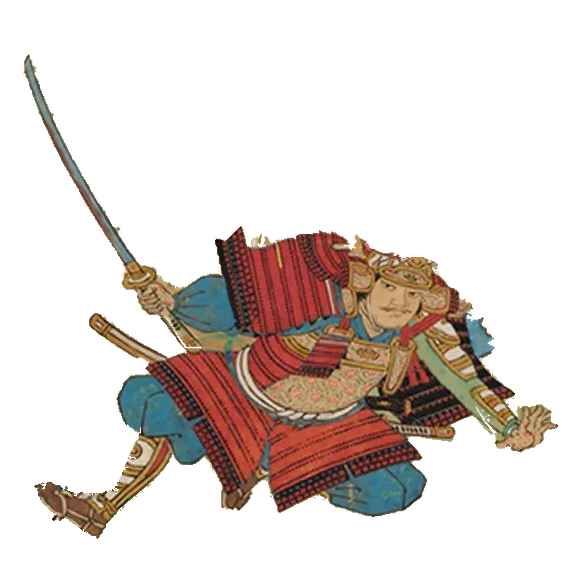
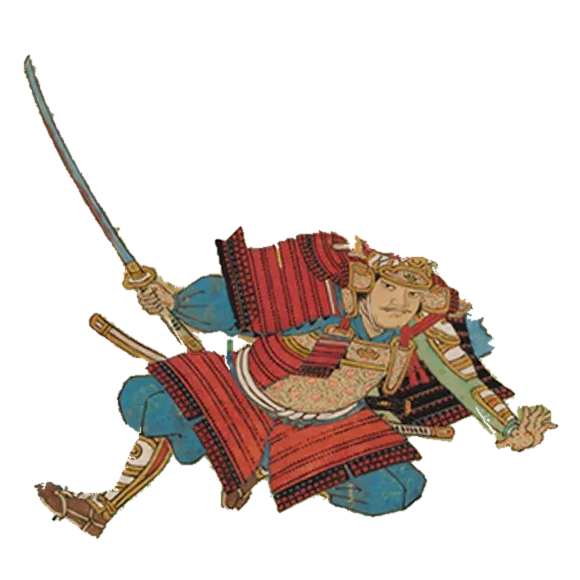
fix: 残っていた小さな問題をまとめて直す (縁のそろえ・柄の端・背景の混入)
- 全フレームの縁を同じ作りにそろえた (アルファを2値にして同じ幅でぼかす)。
  静止 (1・8) だけ硬かった縁がそろい、透明なのに RGB が 0 でない画素と孤立した小片がなくなった
- 柄の端 (石突き) も柄と一緒に動かし、裾の上に空いた跡は周りの赤で埋めた (石突きだけ静止して見えていた)
- 肩の板の上の鬼の牙・唇の欠片、袖の下と裾の上のあいだの背景の帯をマスクから外した

Claude-Session: https://claude.ai/code/session_01WefeYuLWziLRgKXWJhEEtu

diff --git a/shuten-doji-animation-prototype/tools/make_assets.py b/shuten-doji-animation-prototype/tools/make_assets.py
@@ -129,6 +129,10 @@ def build_mask(rgb):
     whitish = (rgb.max(axis=2).astype(int) - rgb.min(axis=2).astype(int) < 28) & (rgb.astype(int).sum(axis=2) / 3 > 185)
     wedge = poly_mask(rgb.shape, WEDGE_OCHRE) > 0
     m[wedge & (r > g + 5) & (g > b + 20) & (lum > 120) & (lum < 172)] = 0    # 肌 (lum 190 前後) は残す
+    # 肩の板の上に付いた鬼の牙 (白) と唇 (黄土) の欠片: 板の赤・暗色以外を除く
+    lip = np.zeros(m.shape, bool)
+    lip[346:366, 240:282] = True
+    m[lip & ~((r > g + 45) | (lum < 90))] = 0
     hand_box = np.zeros(m.shape, bool)
     hand_box[534:580, 503:558] = True
     m[hand_box & whitish] = 0
@@ -138,6 +142,18 @@ def build_mask(rgb):
     cs, _ = cv2.findContours(m, cv2.RETR_EXTERNAL, cv2.CHAIN_APPROX_NONE)
     filled = np.zeros_like(m)
     cv2.drawContours(filled, cs, -1, 1, -1)
+    # 袖の下と裾の上のあいだは背景 (黄土色に草の筆線)。各列で、袖の青が終わる位置から
+    # 裾の赤が始まる位置までを外す (袖と裾の輪郭線は残す)。柄がある x<203 は対象外
+    blue = (b >= g - 10) & (b > r + 20)
+    red = r > g + 55
+    for x in range(203, 242):
+        col_blue = np.where(blue[440:462, x])[0]
+        col_red = np.where(red[456:486, x])[0]
+        if len(col_blue) and len(col_red):
+            y_top = 440 + col_blue.max() + 3
+            y_bot = 456 + col_red.min() - 1
+            if y_bot > y_top:
+                filled[y_top:y_bot, x] = 0
     return peel_background(rgb, filled)
 
 
@@ -222,13 +238,13 @@ FOREARM_POLY = [(468, 504), (484, 501), (498, 509), (507, 519), (514, 528), (524
 SWORD_TOP_REGION = (410, 172)   # y<410 かつ x<172 (鍔の下端まで含める)
 HAND_POLY = [(128, 402), (150, 399), (165, 400), (172, 412), (172, 425), (166, 433), (150, 438), (138, 436),
              (130, 428), (126, 412)]
-SWORD_TAIL_POLY = [(159, 428), (170, 428), (174, 436), (181, 445), (194, 458), (198, 466), (182, 466), (175, 456),
+SWORD_TAIL_POLY = [(159, 428), (170, 428), (174, 436), (181, 445), (194, 458), (200, 472), (184, 472), (175, 456),
                    (165, 439), (159, 432)]
 CLOTH_SKIRT = [(190, 520), (430, 520), (430, 640), (190, 640)]
 CLOTH_SLEEVE = [(168, 395), (236, 395), (236, 458), (168, 458)]
 
 # 関節付近 (中心, 半径) は土台に元の画素を残し、回した部位の下で継ぎ目が透けないようにする
-KEEP_JOINTS = [(478, 500, 22), (172, 420, 14)]
+KEEP_JOINTS = [(478, 500, 22), (172, 420, 14)]   # 肘 / 握りと袖
 
 FOOT = (95.0, 655.0)     # 足元の基準点 (胴体の傾きの回転中心 = 全フレーム固定)
 ELBOW = (478.0, 500.0)   # 右前腕の回転中心
@@ -303,6 +319,7 @@ class Rig:
         for cx, cy, r in keep_joints:
             cut &= ((xx - (cx - CX0)) ** 2 + (yy - (cy - CY0)) ** 2) > r * r
         self.base = self.P * (~cut)[..., None]
+        self._fill_under_pommel(cut)
         # 布の揺れ・頭の補正用の重み
         def soft(pts, s):
             return cv2.GaussianBlur(poly_mask(shp, to_canvas(pts)).astype(np.float32), (0, 0), s)
@@ -310,6 +327,25 @@ class Rig:
         self.w_skirt = soft(CLOTH_SKIRT, 5) * ramp
         self.w_sleeve = soft(CLOTH_SLEEVE, 4) * 0.6
         self.w_head = soft(HEAD_POLY, 8)
+
+    def _fill_under_pommel(self, cut):
+        """柄の端 (石突き) は裾の赤の上にあった。柄を動かすと、そこが抜けて透けるので、周りの赤で埋める。
+        埋めるのは、補間の結果が赤い画素だけ (裾の上より上の背景まで赤くしない)。"""
+        x0, x1 = 170 - CX0, 216 - CX0
+        y0, y1 = 452 - CY0, 490 - CY0
+        yy = np.arange(y0, y1)[:, None] + CY0
+        vac = self.parts["sword"][y0:y1, x0:x1] & (yy >= 467)
+        if not vac.any():
+            return
+        a = self.base[y0:y1, x0:x1, 3]
+        col = (self.base[y0:y1, x0:x1, :3] / np.maximum(a[..., None], 1e-4)).clip(0, 255).astype(np.uint8)
+        unknown = (vac | (a < 0.5)).astype(np.uint8)
+        filled = cv2.inpaint(cv2.cvtColor(col, cv2.COLOR_RGB2BGR), unknown, 3, cv2.INPAINT_TELEA)
+        rgb = cv2.cvtColor(filled, cv2.COLOR_BGR2RGB).astype(np.float32)
+        reddish = (rgb[..., 0] > rgb[..., 1] + 45) & (rgb[..., 0] > 120)
+        sel = vac & reddish
+        self.base[y0:y1, x0:x1, :3][sel] = rgb[sel]
+        self.base[y0:y1, x0:x1, 3][sel] = 1.0
 
     def render(self, lean, sway, fore, sword, interp=cv2.INTER_LANCZOS4):
         h, w = self.h, self.w
@@ -341,7 +377,7 @@ class Rig:
                                    borderMode=cv2.BORDER_CONSTANT, borderValue=0)
             layer = fix_premult(layer)
             out = layer + out * (1.0 - layer[..., 3:4])
-        return out
+        return finish_frame(out)
 
 
 def fix_premult(p):
@@ -350,10 +386,34 @@ def fix_premult(p):
     return np.concatenate([np.clip(p[..., :3], 0.0, 255.0 * a), a], axis=-1)
 
 
+def finish_frame(p, min_area=25, sigma=0.6):
+    """全フレームの縁を同じ作りにそろえる。
+    - アルファを 2 値にして (動かしたフレームだけ半透明になるのを防ぐ)、孤立した小片を除く
+    - 縁の色は内側の色を外へ延ばして使い、同じ幅 (sigma) だけぼかして柔らかくする
+    これで、静止 (1・8) と動いたフレーム (2〜7) の縁が同じ見え方になる。"""
+    a = p[..., 3]
+    hard = (a > 0.5).astype(np.uint8)
+    n, lab, st, _ = cv2.connectedComponentsWithStats(hard)
+    for i in range(1, n):
+        if st[i, 4] < min_area:
+            hard[lab == i] = 0
+    hf = hard.astype(np.float32)
+    col = np.where(a[..., None] > 1e-4, p[..., :3] / np.maximum(a[..., None], 1e-4), 0.0) * hf[..., None]
+    num = cv2.GaussianBlur(col * hf[..., None], (0, 0), 1.2)
+    den = cv2.GaussianBlur(hf, (0, 0), 1.2)[..., None]
+    ext = np.where(den > 1e-3, num / np.maximum(den, 1e-3), 0.0)
+    col = np.where(hf[..., None] > 0, col, ext)
+    alpha = cv2.GaussianBlur(hf, (0, 0), sigma)
+    alpha[alpha < 0.04] = 0.0
+    return np.concatenate([col * alpha[..., None], alpha[..., None]], axis=-1).astype(np.float32)
+
+
 def premul_to_rgba8(p):
     a = p[..., 3:4]
     rgb = np.where(a > 1e-4, p[..., :3] / np.maximum(a, 1e-4), 0)
-    return np.clip(np.concatenate([rgb, a * 255.0], axis=-1) + 0.5, 0, 255).astype(np.uint8)
+    out = np.clip(np.concatenate([rgb, a * 255.0], axis=-1) + 0.5, 0, 255).astype(np.uint8)
+    out[out[..., 3] == 0, :3] = 0
+    return out
 
 
 def composite_on(plate_rgb, sprite_rgba8):

diff --git a/shuten-doji-animation-prototype/tools/make_character_a.py b/shuten-doji-animation-prototype/tools/make_character_a.py
@@ -20,6 +20,7 @@ from PIL import Image, ImageDraw, ImageFont
 
 sys.path.insert(0, os.path.dirname(os.path.abspath(__file__)))
 import game_canvas as GC  # noqa: E402
+import make_assets as MA  # noqa: E402
 
 ROOT = os.path.dirname(os.path.dirname(os.path.abspath(__file__)))
 SCROLL = os.path.join(ROOT, "assets/scroll/scroll_original.png")
@@ -50,7 +51,7 @@ def main():
     sub = np.dstack([rgb, mask.astype(np.uint8) * 255])[GC.SPRITE_Y0:GC.SPRITE_Y0 + CH_H, GC.SPRITE_X0:GC.SPRITE_X0 + CH_W]
     al = sub[..., 3:4].astype(np.float32) / 255.0
     a[...] = np.concatenate([sub[..., :3].astype(np.float32) * al, al], axis=-1)
-    canvas = GC.to_game_rgba8(a)
+    canvas = GC.to_game_rgba8(MA.finish_frame(a))   # 8 フレームと同じ縁の仕上げを通す
     Image.fromarray(canvas, "RGBA").save(os.path.join(OUT, "character_a.png"))
     gx, gy = GC.GROUND
     cys, cxs = np.where(canvas[..., 3] > 0)

diff --git a/shuten-doji-animation-prototype/README.md b/shuten-doji-animation-prototype/README.md
@@ -71,6 +71,7 @@ Godot で `scale` を 0.8 / 1.0 / 1.2 にして描画すると、高さは約 20
 | 足元 | 全フレームで固定 |
 
 表示時間は 120 / 100 / 100 / 80 / 60 / 180 / 120 / 200 ms です。
+全フレームの縁は同じ作りにそろえています (アルファを 2 値にして同じ幅でぼかす)。
 部位を回す・ずらす補間は Lanczos で、筆線の鮮明さを保っています (表示倍率 0.625 で、静止の 8 割以上)。
 値は `tools/make_assets.py` の `FRAMES` にあります。
 
@@ -79,6 +80,6 @@ Godot で `scale` を 0.8 / 1.0 / 1.2 にして描画すると、高さは約 20
 - **背景の復元は簡易です。** 人物の背後にあった鬼の顔・髪・薙刀・梁は、周囲の色を回して埋めているだけで、絵として描き足してはいません。
   武者が常に覆っている部分は見えませんが、刀が動いたあとの元の位置など、露出する部分は自然に見えるように周囲へなじませています。
   `scroll_background_clean.png` 単体で見ると、人物のいた場所は滲んで見えます。
-- 刀を大きく振ると、手の下に出ている柄の先端が少し浮きます。
+- 刀を大きく振ると、柄が袖の角から離れ、袖の角がわずかに欠けて見えます (背景の色が透けます)。
 - 手の周りと前腕の脇に、畳の色の点がごくわずか (数画素) 混ざっています。
-- 人物Aの縁には、兜の上の鬼の唇の赤や、袖の上の黄土色が数画素残っています。これ以上マスクを削ると指先や草鞋の紐まで削れるため、そのままにしています。
+- 人物Aの縁に、数画素の取りこぼしが残る場合があります。これ以上マスクを削ると指先や草鞋の紐まで削れるため、そのままにしています。
